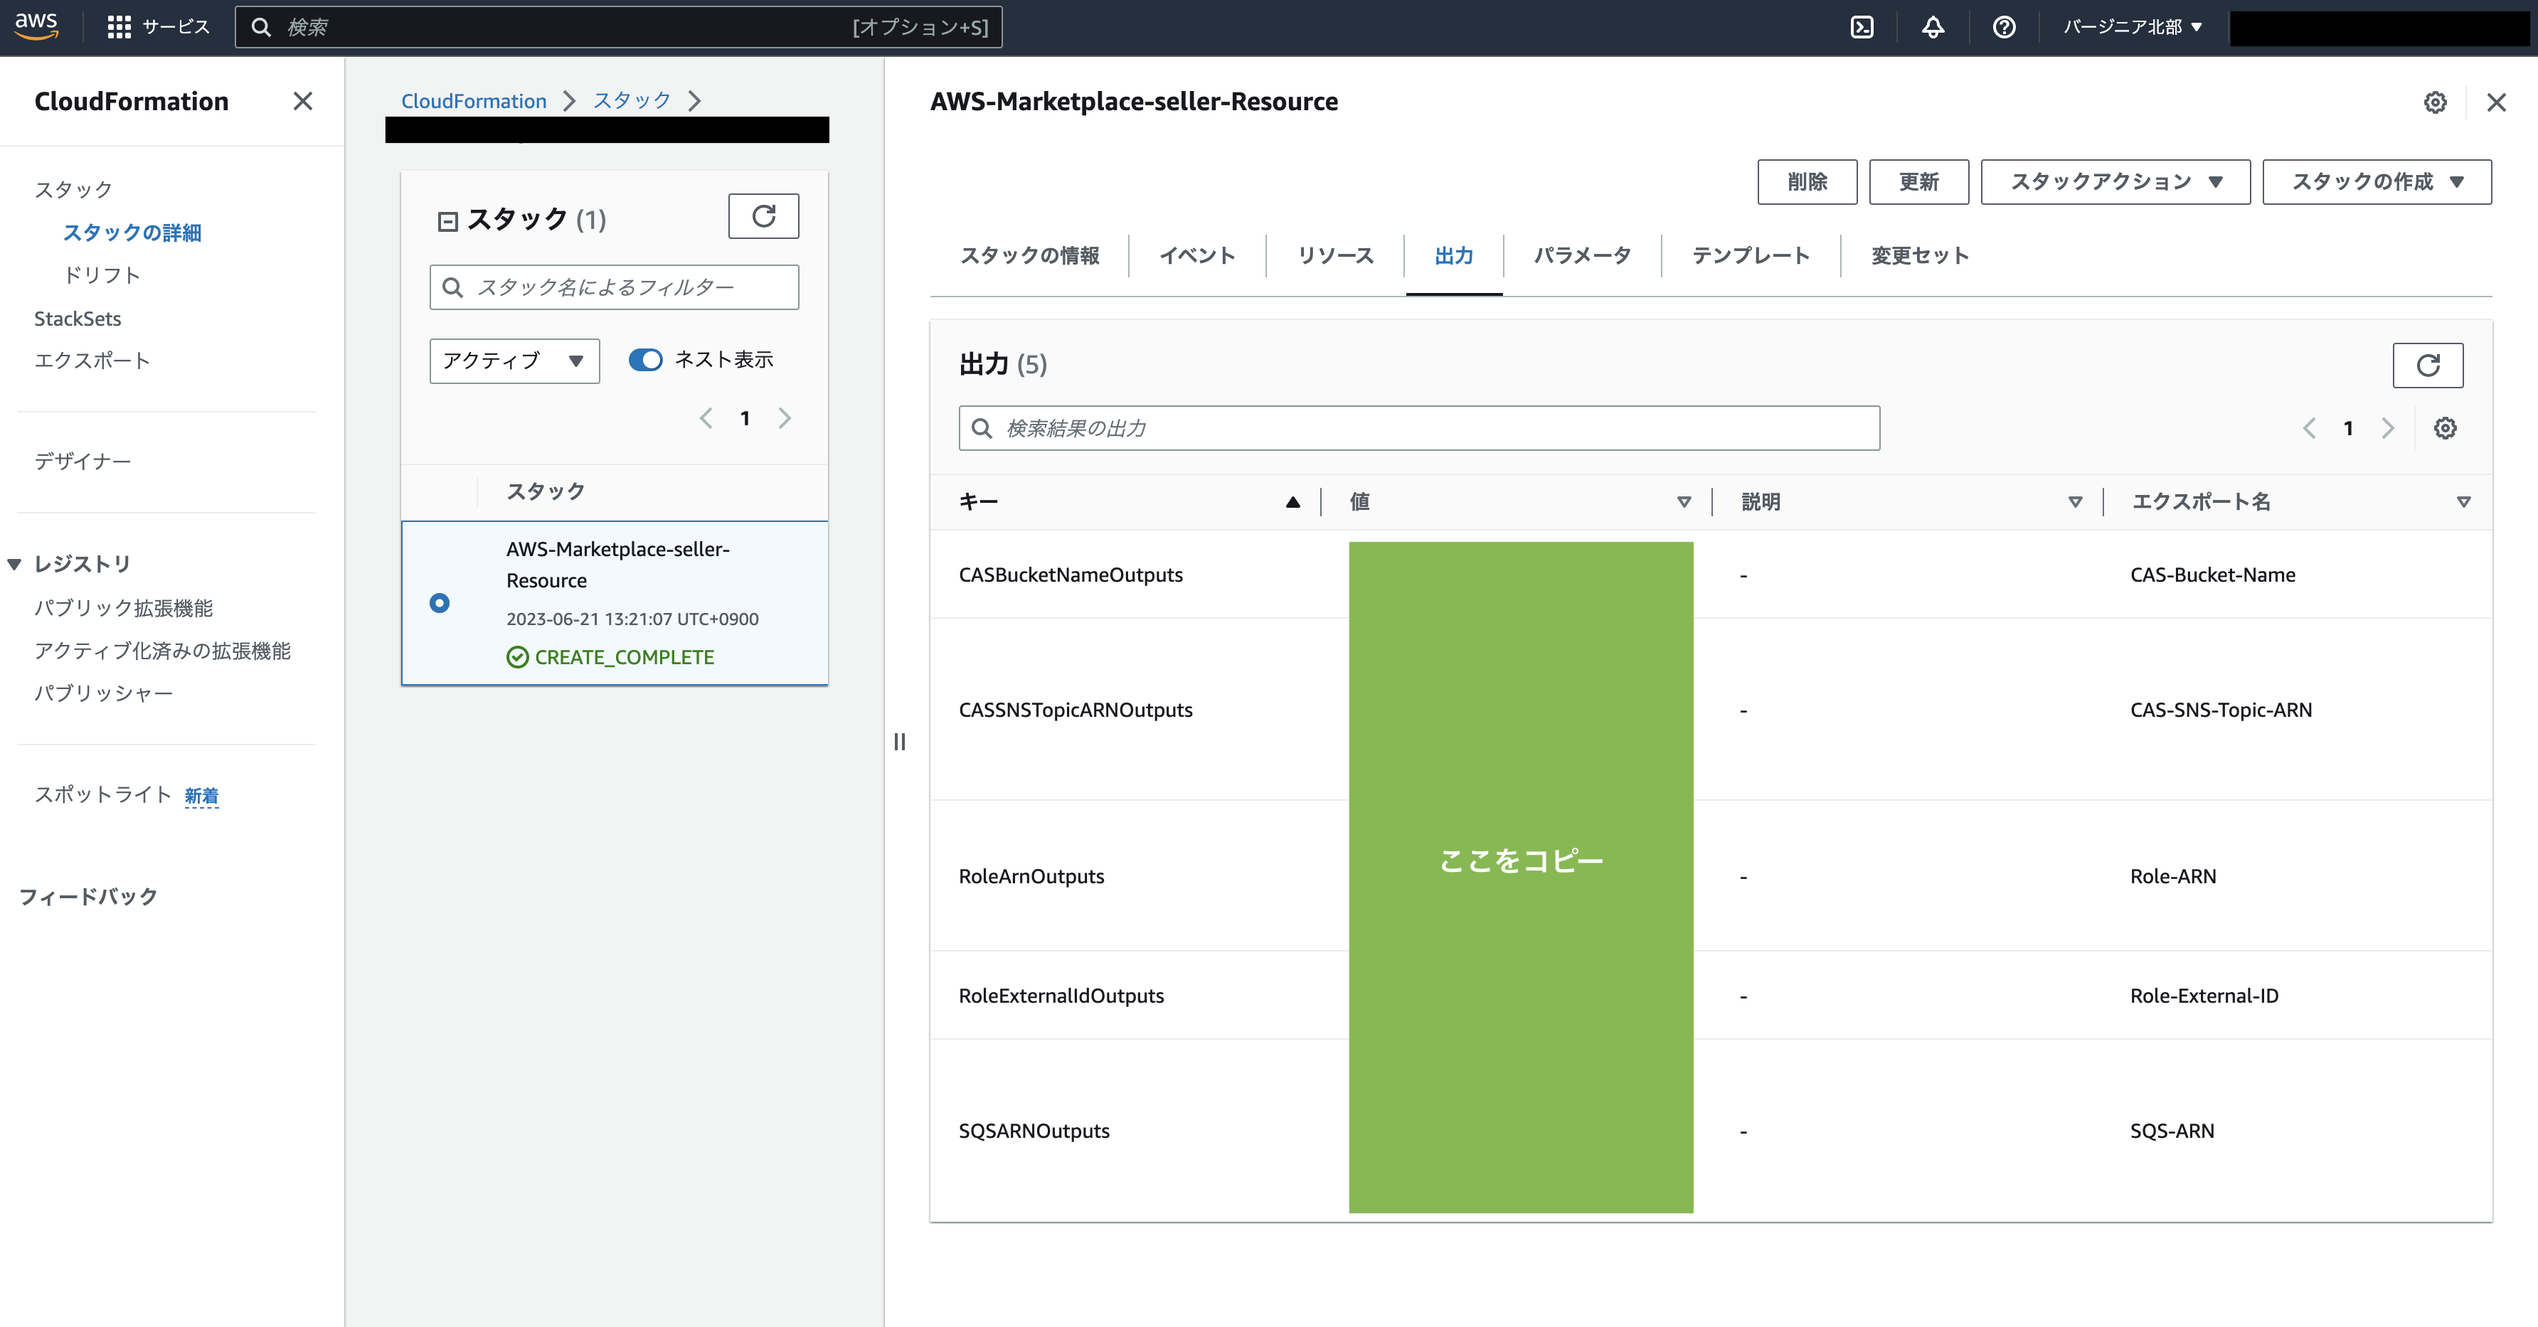
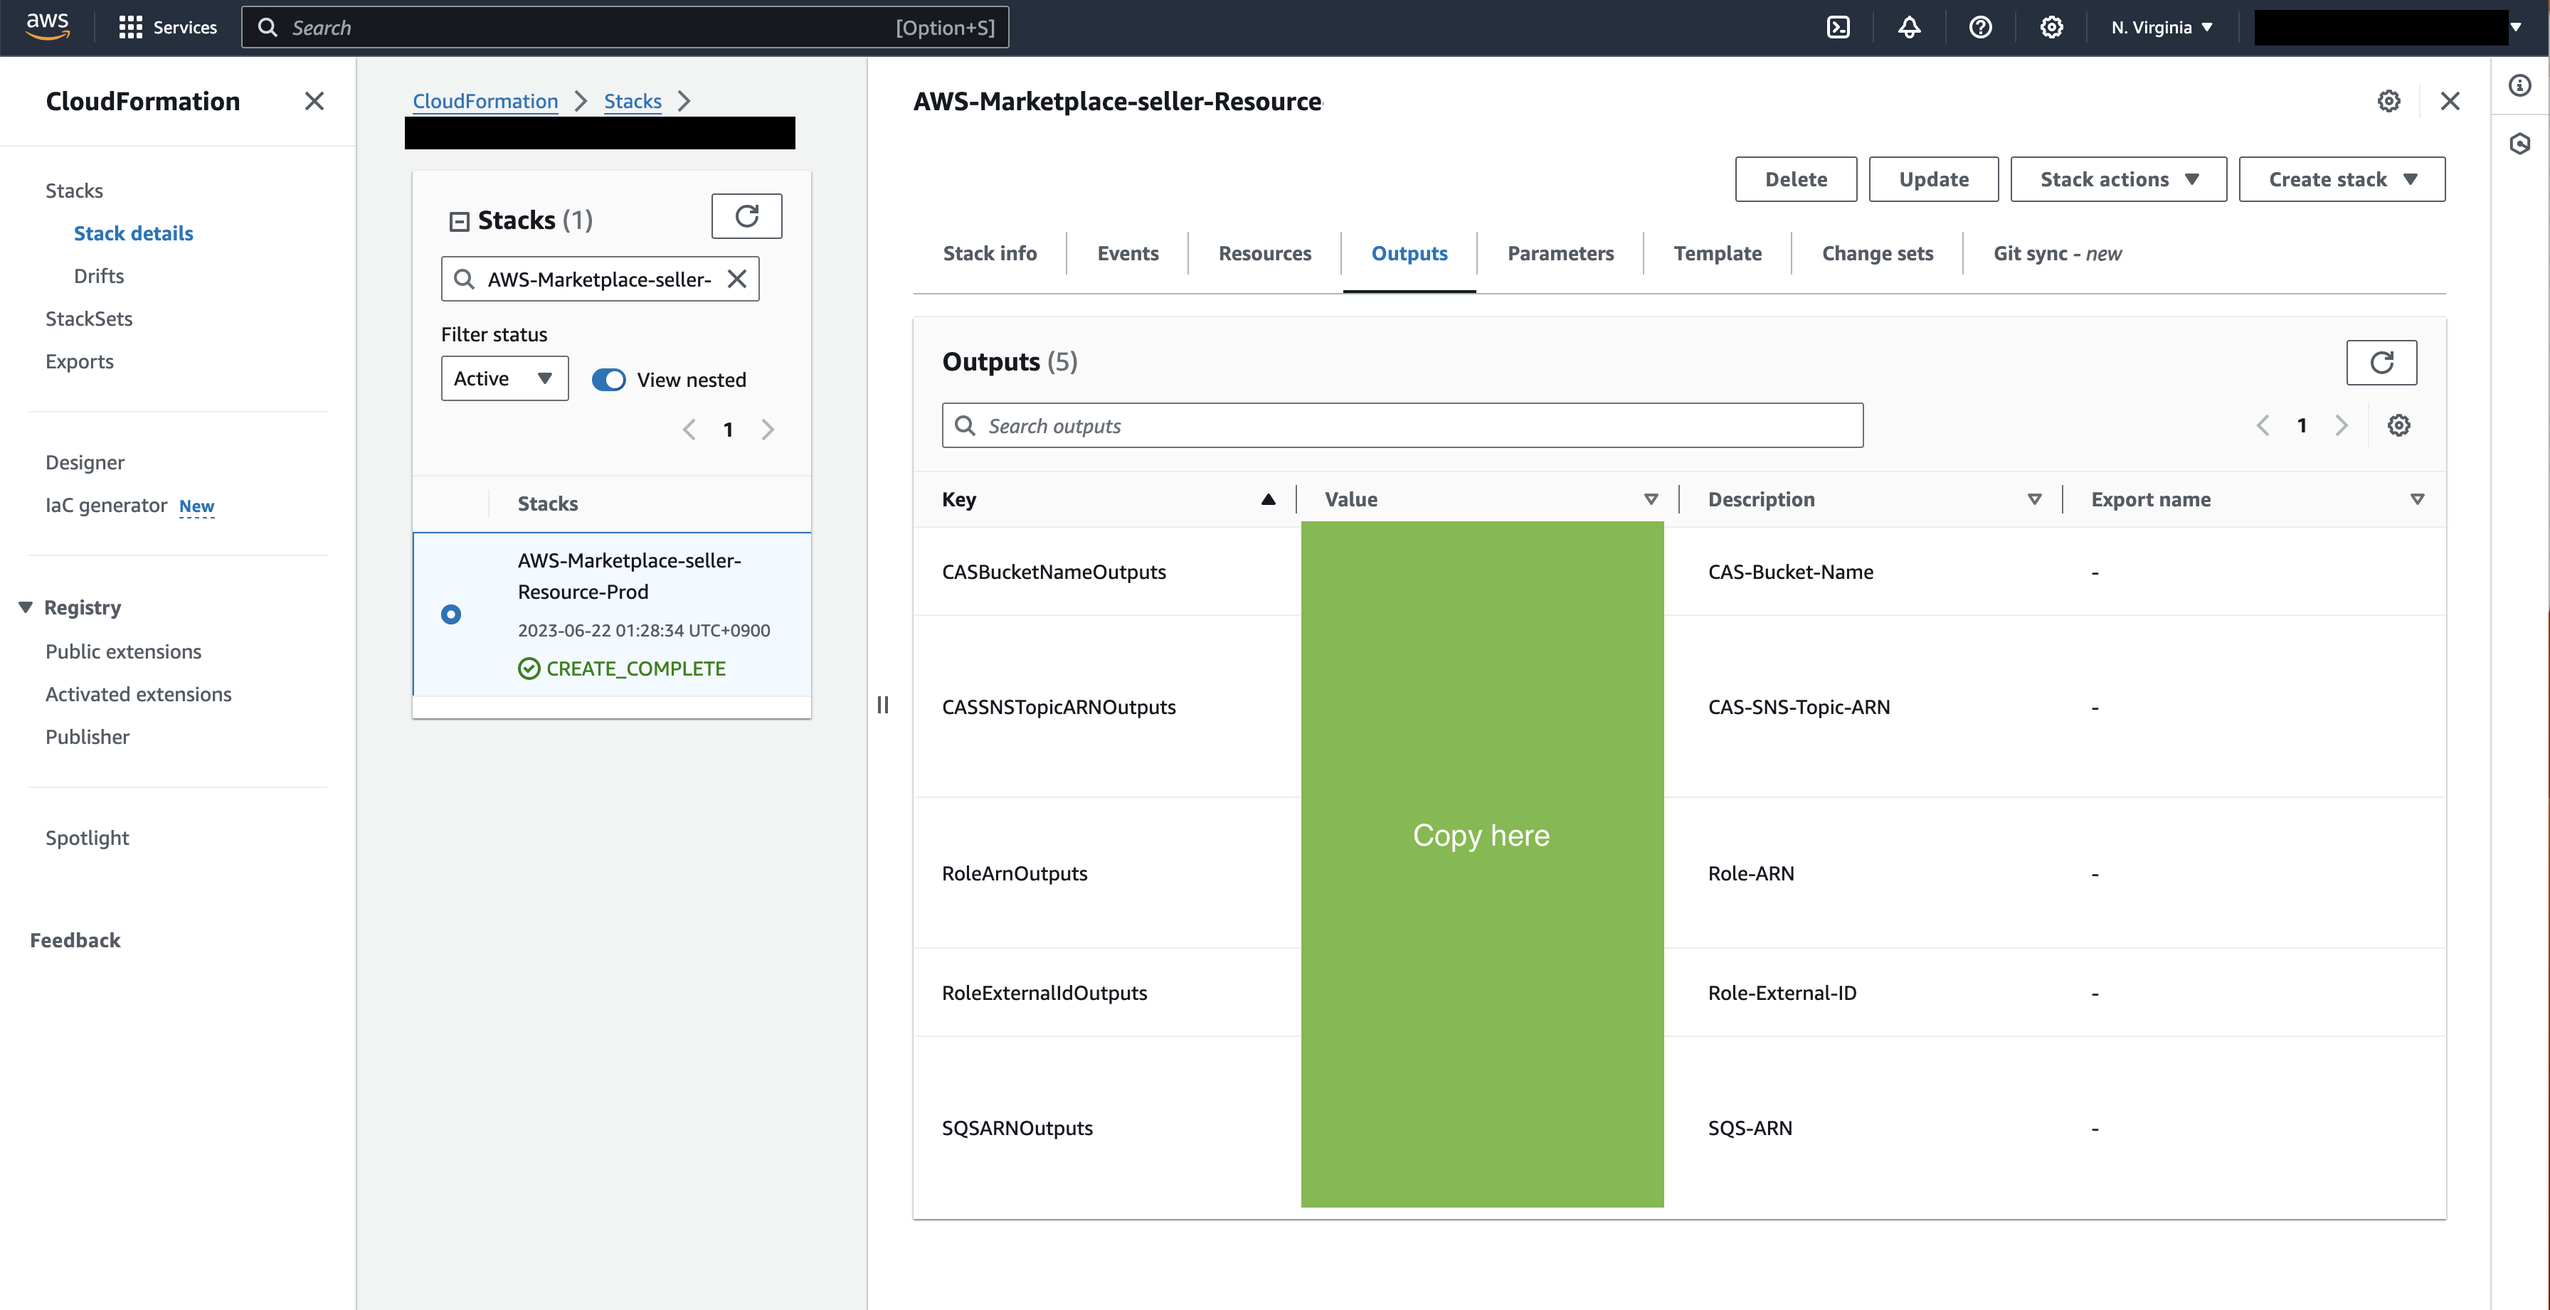
translate supplementary

diff --git a/docs/aws-marketplace-integration/supplementary/public-request.md b/docs/aws-marketplace-integration/supplementary/public-request.md
@@ -1,29 +1,30 @@
 ---
-title: "公開依頼の方法について"
+title: "How to Request for Publication"
 slug: "public-request"
 excerpt: ""
 hidden: false
-metadata: 
+metadata:
   image: []
   robots: "index"
 createdAt: "Thu Jun 29 2023 12:23:26 GMT+0000 (Coordinated Universal Time)"
 updatedAt: "Fri Oct 27 2023 07:17:41 GMT+0000 (Coordinated Universal Time)"
 ---
-[出品手順「11. 本番用SaaS製品の最終レビュー依頼」](/docs/aws-marketplace-integration/aws-marketplace-integration)が完了後、AWS Marketplaceサポートチームから公開依頼する手順について説明するメールが届きますので、それを元に公開依頼を行います。
+<!-- TODO 遷移先画面の英語対応後にリンク名を修正 -->
+Once you've completed the [Listing Procedure "11. Final Review Request of Production SaaS Product"](/docs/aws-marketplace-integration/aws-marketplace-integration), you will receive an email from the AWS Marketplace Support Team detailing the process to request publication. Follow these instructions to request your publication.
 
 :::caution
-事前に調査した内容から、公開依頼の方法についてドキュメントを作成していますが実際に届いたメールの内容が最新の方法となりますので、そちらの方法に従ってください。
+While we have prepared a document regarding the publication request process based on our prior research, the actual instructions provided in the email you'll receive represents the most updated procedure and should be followed accordingly.
 :::
 
-まず、AWS Marketplace Management Portalで公開依頼のリクエストを行う必要があります。
+First, you need to make a publication request in the AWS Marketplace Management Portal.
 
-1. <a href="https://aws.amazon.com/marketplace/management/homepage" target="_blank">AWS Marketplace Management Portal</a>にアクセスします
-2. Requestsページへ移動後、公開するSaaS製品のリクエストを選択します
-3. 公開依頼できる状態であれば、「Review your Product Listing」というタイトルのページが表示されます  
-   ![public-request-1](/img/aws-marketplace-integration/supplementary/public-request-1.png)
-4. Status「Approve」を選択して、「Submit」ボタンを押下してください
+1. Access the <a href="https://aws.amazon.com/marketplace/management/homepage" target="_blank">AWS Marketplace Management Portal</a>
+2. After moving to the 'Requests' page, select the request for the SaaS product you want to publish.
+3. If the product is ready for a publication request, a page with the title 'Review your Product Listing' will be displayed.
+  ![public-request-1](/img/aws-marketplace-integration/supplementary/public-request-1.png)
+4. Select 'Approve' for the status, and click the 'Submit' button.
 
-以上で公開依頼のリクエストは完了です。
+That's it! You've completed the publication request.
 
-最後に、**「Action Required: AWS Marketplace SaaS Contract Next Steps [ thread::XXXXXXXXXX:: ]」**というメールに対して「SaaS製品を公開してください」という旨の**英文**を書いて返信してください。返信が完了したら公開依頼は完了となります。  
-3~5営業日以内には、サポートチームによってSaaS製品がAWS Marketplace上に公開されることになります。
+Finally, reply to the **"Action Required: AWS Marketplace SaaS Contract Next Steps [ thread::XXXXXXXXXX:: ]"** email by writing a message in **English** that says "Please publish the SaaS product". Once you've replied, your publication request is complete.  
+With this process, your SaaS product will be published on the AWS Marketplace by the Support Team within 3 to 5 business days.

diff --git a/docs/aws-marketplace-integration/supplementary/final-review-request.md b/docs/aws-marketplace-integration/supplementary/final-review-request.md
@@ -1,27 +1,29 @@
 ---
-title: "最終レビュー依頼の方法について"
+title: "How to Request a Final Review"
 slug: "final-review-request"
 excerpt: ""
 hidden: false
-metadata: 
+metadata:
   image: []
   robots: "index"
 createdAt: "Thu Jun 29 2023 11:59:26 GMT+0000 (Coordinated Universal Time)"
 updatedAt: "Fri Jun 30 2023 03:39:08 GMT+0000 (Coordinated Universal Time)"
 ---
-[出品手順「10. AWS Marketplaceとの連携確認」](/docs/aws-marketplace-integration/aws-marketplace-integration)が完了したら、AWS Marketplaceサポートチームへ最終レビューの依頼を行います。
+<!-- TODO 遷移先画面の英語対応後にリンク名を修正 -->
+Once the [Listing Procedure "10. Confirmation of Integration with AWS Marketplace"](/docs/aws-marketplace-integration/aws-marketplace-integration) is complete, you will need to request a final review from the AWS Marketplace Support Team.
 
-[出品手順「8. 本番用SaaS製品の登録(AMMP)](/docs/aws-marketplace-integration/aws-marketplace-integration)」が完了時、サポートチームから**「Action Required: AWS Marketplace SaaS Contract Next Steps [ thread::XXXXXXXXXX:: ]」**というメールが届きます、お手元で届いているかご確認ください。
+<!-- TODO 遷移先画面の英語対応後にリンク名を修正 -->
+When you complete the [Listing Procedure "8. Registration of Production SaaS Product (AMMP)"](/docs/aws-marketplace-integration/aws-marketplace-integration), you'll receive an email from the support team titled **"Action Required: AWS Marketplace SaaS Contract Next Steps [ thread::XXXXXXXXXX:: ]"**, please confirm if you've received it.
 
 ![final-review-request-1](/img/aws-marketplace-integration/supplementary/final-review-request-1.png)
 
 
-最終レビュー依頼は、届いたメールへ返信する必要がございます。メールの本文で「API統合と動作確認テストが終わりました、レビューお願いします」という旨の**英文**を書いて送信してください。  
-以上で最終レビュー依頼は完了です。
+To request a final review, you need to reply to the received email. In the body of the email, write "The API integration and operational test have been completed, please review" in **English** and send.  
+This completes the final review request.
 
-### 最終レビューの結果を受けて
+### Receiving the final review results
 
-3~5営業日で返信が届きます。最終レビューに問題がなければ、サポートチームからテストに使用した契約情報を削除してもよいかの承諾を求められます。その際は、メールで返信してください。  
-最終レビューで問題がある場合は、サポートチームから修正を求められることがありますので、修正対応を行った後に再度メールで最終レビュー依頼を行ってください。
+You will receive a reply within 3-5 business days. If there are no problems with the final review, the support team may ask for your consent to delete the contract information used for testing. Please reply to the email in that case.  
+If there are problems during the final review, the support team may request corrections. After making the necessary corrections, please request a final review again by email.
 
-テスト契約情報の削除が完了すると、サポートチームからメールが届きます。メールを受け取ったら、次の公開依頼の手続きに進むことができます。
+Once the deletion of test contract information is complete, you'll receive an email from the support team. Once you receive the email, you can proceed to the next step of requesting publication.

diff --git a/docs/aws-marketplace-integration/supplementary/supplementary-3.md b/docs/aws-marketplace-integration/supplementary/supplementary-3.md
@@ -1,22 +1,22 @@
 ---
-title: "生成したAWSリソースのコピー手順"
+title: "Procedure for Copying the Generated AWS Resources"
 slug: "supplementary-3"
 excerpt: ""
 hidden: false
-metadata: 
+metadata:
   image: []
   robots: "index"
 createdAt: "Sat Jun 17 2023 09:33:23 GMT+0000 (Coordinated Universal Time)"
 updatedAt: "Fri Oct 27 2023 07:16:51 GMT+0000 (Coordinated Universal Time)"
 ---
-1. AWS マネジメントコンソールへログインします。
-2. こちらの<a href="https://us-east-1.console.aws.amazon.com/cloudformation/home?region=us-east-1#/stacks?filteringText=&filteringStatus=active&viewNested=true" target="_blank">リンク</a> へアクセスしてください。
-3. 以下のページが表示されますので、スタック「AWS-Marketplace-seller-Resource」を選択してください。
+1. Sign in to the AWS Management Console.
+2. Please access this <a href="https://us-east-1.console.aws.amazon.com/cloudformation/home?region=us-east-1#/stacks?filteringText=&filteringStatus=active&viewNested=true" target="_blank">link</a>.
+3. When the following page is displayed, select the stack 'AWS-Marketplace-seller-Resource'.
    1. ![supplementary-3-1](/img/aws-marketplace-integration/supplementary/supplementary-3-1.png)
-4. 画面右側に表示されるタブのうち、「出力」を選んでください。
-5. エクスポート名に表示されている名前を確認して、その値をコピーしてください。
+4. Among the tabs shown on the right side of the page, choose 'Outputs'.
+5. Verify the name displayed for the Export name and copy its value.
    1. ![supplementary-3-2](/img/aws-marketplace-integration/supplementary/supplementary-3-2.png)
-6. コピーしてきた値のエクスポート名と同じフォーム項目にペーストしてください。
+6. Paste the copied value into the form field with the same export name.
 
 <!---->
 

diff --git a/i18n/ja/docusaurus-plugin-content-docs/current/aws-marketplace-integration/supplementary/supplementary-3.md b/i18n/ja/docusaurus-plugin-content-docs/current/aws-marketplace-integration/supplementary/supplementary-3.md
@@ -12,12 +12,12 @@ updatedAt: "Fri Oct 27 2023 07:16:51 GMT+0000 (Coordinated Universal Time)"
 1. AWS マネジメントコンソールへログインします。
 2. こちらの<a href="https://us-east-1.console.aws.amazon.com/cloudformation/home?region=us-east-1#/stacks?filteringText=&filteringStatus=active&viewNested=true" target="_blank">リンク</a> へアクセスしてください。
 3. 以下のページが表示されますので、スタック「AWS-Marketplace-seller-Resource」を選択してください。
-   1. ![supplementary-3-1](/img/aws-marketplace-integration/supplementary/supplementary-3-1.png)
+   1. ![supplementary-3-1](/ja/img/aws-marketplace-integration/supplementary/supplementary-3-1.png)
 4. 画面右側に表示されるタブのうち、「出力」を選んでください。
 5. エクスポート名に表示されている名前を確認して、その値をコピーしてください。
-   1. ![supplementary-3-2](/img/aws-marketplace-integration/supplementary/supplementary-3-2.png)
+   1. ![supplementary-3-2](/ja/img/aws-marketplace-integration/supplementary/supplementary-3-2.png)
 6. コピーしてきた値のエクスポート名と同じフォーム項目にペーストしてください。
 
 <!---->
 
-1. 1. ![supplementary-3-3](/img/aws-marketplace-integration/supplementary/supplementary-3-3.png)
+1. 1. ![supplementary-3-3](/ja/img/aws-marketplace-integration/supplementary/supplementary-3-3.png)

diff --git a/i18n/ja/docusaurus-plugin-content-docs/current/aws-marketplace-integration/supplementary/final-review-request.md b/i18n/ja/docusaurus-plugin-content-docs/current/aws-marketplace-integration/supplementary/final-review-request.md
@@ -13,7 +13,7 @@ updatedAt: "Fri Jun 30 2023 03:39:08 GMT+0000 (Coordinated Universal Time)"
 
 [出品手順「8. 本番用SaaS製品の登録(AMMP)](/docs/aws-marketplace-integration/aws-marketplace-integration)」が完了時、サポートチームから**「Action Required: AWS Marketplace SaaS Contract Next Steps [ thread::XXXXXXXXXX:: ]」**というメールが届きます、お手元で届いているかご確認ください。
 
-![final-review-request-1](/img/aws-marketplace-integration/supplementary/final-review-request-1.png)
+![final-review-request-1](/ja/img/aws-marketplace-integration/supplementary/final-review-request-1.png)
 
 
 最終レビュー依頼は、届いたメールへ返信する必要がございます。メールの本文で「API統合と動作確認テストが終わりました、レビューお願いします」という旨の**英文**を書いて送信してください。  

diff --git a/i18n/ja/docusaurus-plugin-content-docs/current/aws-marketplace-integration/supplementary/public-request.md b/i18n/ja/docusaurus-plugin-content-docs/current/aws-marketplace-integration/supplementary/public-request.md
@@ -20,7 +20,7 @@ updatedAt: "Fri Oct 27 2023 07:17:41 GMT+0000 (Coordinated Universal Time)"
 1. <a href="https://aws.amazon.com/marketplace/management/homepage" target="_blank">AWS Marketplace Management Portal</a>にアクセスします
 2. Requestsページへ移動後、公開するSaaS製品のリクエストを選択します
 3. 公開依頼できる状態であれば、「Review your Product Listing」というタイトルのページが表示されます  
-   ![public-request-1](/img/aws-marketplace-integration/supplementary/public-request-1.png)
+   ![public-request-1](/ja/img/aws-marketplace-integration/supplementary/public-request-1.png)
 4. Status「Approve」を選択して、「Submit」ボタンを押下してください
 
 以上で公開依頼のリクエストは完了です。
